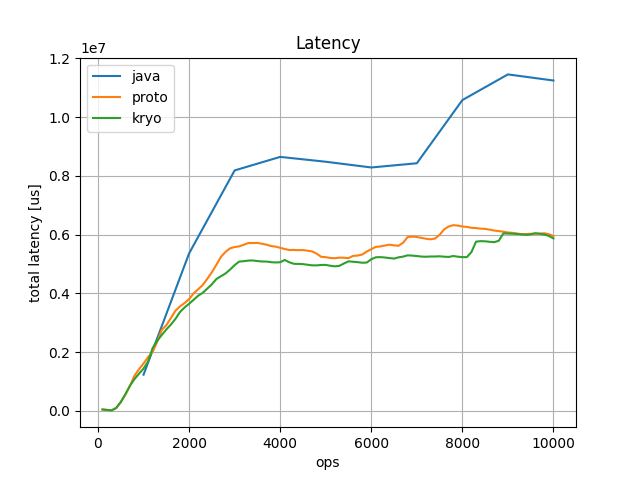
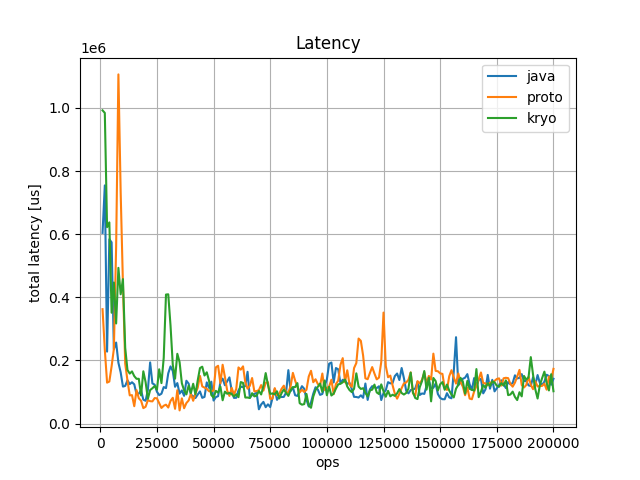
temporary

Changed region(s): [[0.0625, 0.0938, 0.9062, 0.9375], [0.0625, 0.8438, 0.1875, 0.9375]]

diff --git a/src/main/java/bftsmart/demo/microbenchmarks/ThroughputLatencyServer.java b/src/main/java/bftsmart/demo/microbenchmarks/ThroughputLatencyServer.java
@@ -15,6 +15,9 @@ limitations under the License.
 */
 package bftsmart.demo.microbenchmarks;
 
+import bftsmart.communication.SystemMessage;
+import bftsmart.serialization.ByteCountMessageSerializer;
+import bftsmart.serialization.MessageSerializerFactory;
 import bftsmart.tom.MessageContext;
 import bftsmart.tom.ServiceReplica;
 import bftsmart.tom.server.defaultservices.CommandsInfo;
@@ -39,6 +42,8 @@ import java.security.SignatureException;
 import java.security.cert.CertificateException;
 import java.security.cert.CertificateFactory;
 import java.util.Base64;
+import java.util.Map;
+import java.util.concurrent.atomic.AtomicLong;
 import java.util.logging.Level;
 import java.util.logging.Logger;
 
@@ -301,6 +306,13 @@ public final class ThroughputLatencyServer extends DefaultRecoverable{
             
             System.out.println("Batch average size = " + batchSize.getAverage(false) + " (+/- "+ (long)batchSize.getDP(false) +") requests");
             batchSize.reset();
+            
+            ByteCountMessageSerializer byteCountSerializer = MessageSerializerFactory.getByteCountSerializer();
+            if (byteCountSerializer != null) {
+                for (Map.Entry<Class<? extends SystemMessage>, AtomicLong> e : byteCountSerializer.getStats().entrySet()) {
+                    System.out.println(e.getKey().getSimpleName()  + " ByteCount = " + e.getValue().get());        
+                }
+            }
             
             throughputMeasurementStartTime = System.currentTimeMillis();
         }

diff --git a/src/main/java/bftsmart/serialization/ByteCountMessageSerializer.java b/src/main/java/bftsmart/serialization/ByteCountMessageSerializer.java
@@ -1,0 +1,42 @@
+package bftsmart.serialization;
+
+import java.io.IOException;
+import java.io.InputStream;
+import java.io.OutputStream;
+import java.util.Map;
+import java.util.concurrent.ConcurrentHashMap;
+import java.util.concurrent.atomic.AtomicLong;
+
+import bftsmart.communication.SystemMessage;
+
+public final class ByteCountMessageSerializer implements MessageSerializer {
+    private final MessageSerializer delegate;
+
+    private final Map<Class<? extends SystemMessage>, AtomicLong> stats =
+            new ConcurrentHashMap<>();
+
+    public ByteCountMessageSerializer(MessageSerializer delegate) {
+        this.delegate = delegate;
+    }
+
+    public Map<Class<? extends SystemMessage>, AtomicLong> getStats() {
+        return stats;
+    }
+
+    @Override
+    public void serialize(SystemMessage msg, OutputStream out) throws IOException {        
+        ByteCountOutputStream countingOut = new ByteCountOutputStream(out);
+
+        delegate.serialize(msg, countingOut);
+
+        long bytes = countingOut.getByteCount();
+
+        AtomicLong counter = stats.computeIfAbsent(msg.getClass(), c -> new AtomicLong(0));
+        counter.addAndGet(bytes);
+    }
+
+    @Override
+    public SystemMessage deserialize(InputStream in) throws IOException, ClassNotFoundException {
+        return delegate.deserialize(in);
+    }
+}

diff --git a/src/main/java/bftsmart/serialization/MessageSerializerFactory.java b/src/main/java/bftsmart/serialization/MessageSerializerFactory.java
@@ -14,7 +14,10 @@ public class MessageSerializerFactory {
     private static final String PROPERTY = "serialization.framework";
     private static final String DEFAULT_SERIALIZER = "java";
 
+    private static final String MEASURE_PROPERTY = "serialization.measure.bytes";
+
     private static MessageSerializer serializer;
+    private static ByteCountMessageSerializer byteCountSerializer = null;
     static {
         String type = System.getProperty(PROPERTY, DEFAULT_SERIALIZER);
         Serializer serializerType = Serializer.fromName(type);
@@ -27,10 +30,19 @@ public class MessageSerializerFactory {
             KryoSerializer.getInstance().register(DefaultApplicationState.class);
             KryoSerializer.getInstance().register(TreeMap.class);
         }
+
+        if (Boolean.getBoolean(MEASURE_PROPERTY)) {
+            byteCountSerializer = new ByteCountMessageSerializer(serializer);
+            serializer = byteCountSerializer;
+        }
     }
 
     public static MessageSerializer getSerializer() {
         return serializer;
+    }
+
+    public static ByteCountMessageSerializer getByteCountSerializer() {
+        return byteCountSerializer;
     }
 
     private MessageSerializerFactory() { }

diff --git a/src/main/java/bftsmart/serialization/ByteCountOutputStream.java b/src/main/java/bftsmart/serialization/ByteCountOutputStream.java
@@ -1,0 +1,39 @@
+package bftsmart.serialization;
+
+import java.io.IOException;
+import java.io.OutputStream;
+
+public class ByteCountOutputStream extends OutputStream {
+    private long bytesWritten;
+    private final OutputStream delegate;
+
+    public ByteCountOutputStream(OutputStream delegate) {
+        this.delegate = delegate;
+    }
+
+    public long getByteCount() {
+        return bytesWritten;
+    }
+
+    @Override
+    public void write(int b) throws IOException {
+        delegate.write(b);
+        bytesWritten++;
+    }
+
+    @Override
+    public void write(byte[] b, int off, int len) throws IOException {
+        delegate.write(b, off, len);
+        bytesWritten += len;
+    }
+
+    @Override
+    public void flush() throws IOException {
+        delegate.flush();
+    }
+
+    @Override
+    public void close() throws IOException {
+        delegate.close();
+    }
+}
